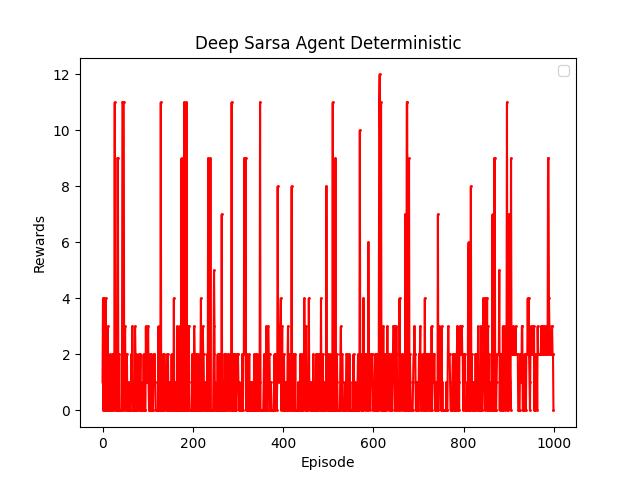
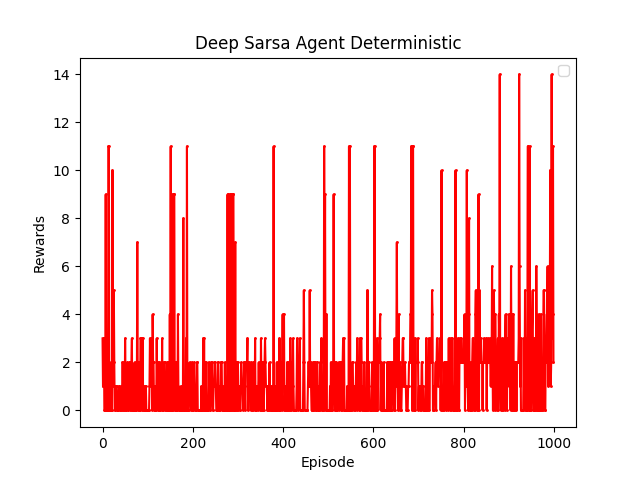
eval_mod added, params added

diff --git a/agents/base.py b/agents/base.py
@@ -46,6 +46,7 @@ class Agent():
             math.exp(-1. * self.steps_done / self.EPS_DECAY)
         return eps_threshold
     def plot_durations(self,show_result=False):
+        return
         plt.figure(1)
         durations_t = torch.tensor(self.episode_durations, dtype=torch.float)
         if show_result:
@@ -81,5 +82,5 @@ class Agent():
         plt.legend()
         path = f"results/{self.name}"
         plt.savefig(path)
-        plt.show(block=False)
+        #plt.show(block=False)
         

diff --git a/main.py b/main.py
@@ -15,7 +15,7 @@ import multiprocessing as mp
 def train_agent(env_name, agent_class, num_episodes):
     env = gym.make(env_name)
     env = EnvironmentWrapper.wrap_environment(env)
-    agent = agent_class(env, is_deterministic=True, linear_layer_class=AdinVBL, conv_layer_class=AdinVBConv2d)
+    agent = agent_class(env, is_deterministic=True, linear_layer_class=AlterVBL, conv_layer_class=AlterVBConv2d)
     agent.train(num_episodes=num_episodes)
 
 def main():

diff --git a/layers/adin_vb.py b/layers/adin_vb.py
@@ -1,7 +1,8 @@
 import torch
 import torch.nn.functional as F
+#From AdinLab, I don't know how to cite a private repository
 
-# Adin Variational Bayesian Linear Layer
+# Adin Variational Bayesian Linear Layer 
 from layers.vbl_base import VBLinear
 
 class AdinVBL(VBLinear):
